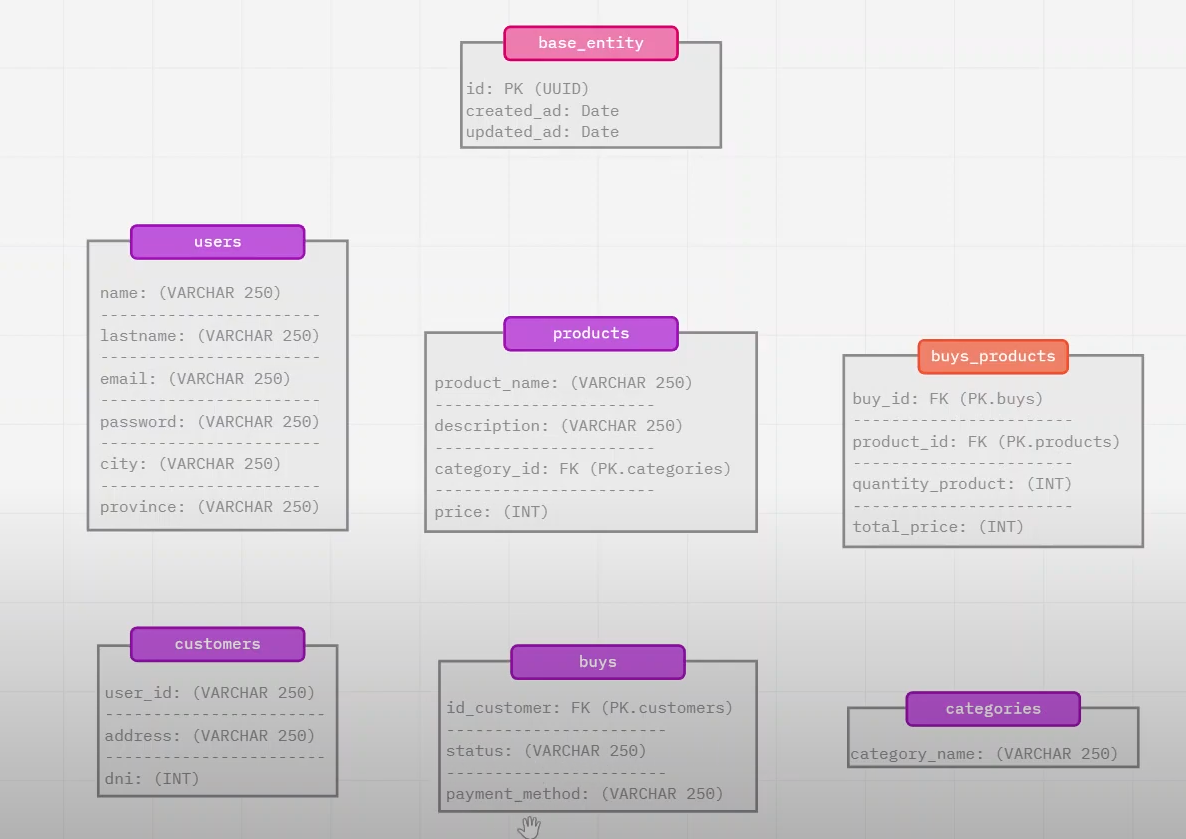
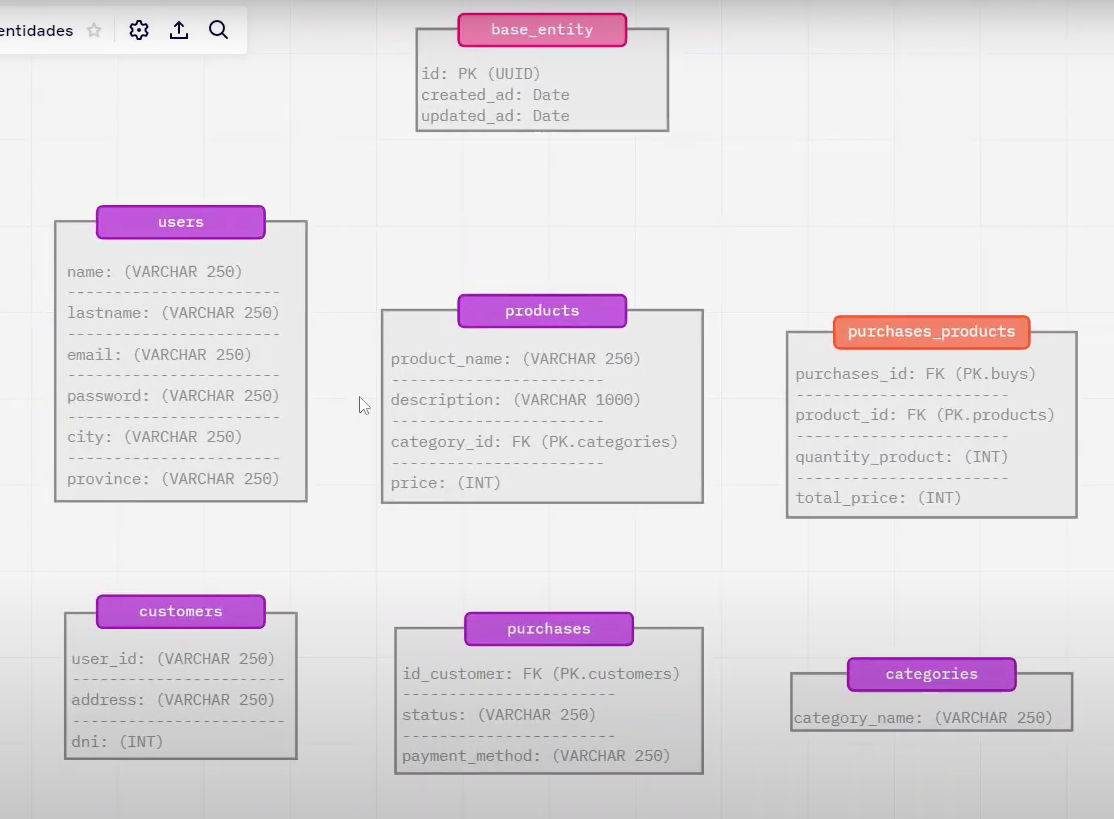
feat: adding remain entities

diff --git a/src/user/entities/user.entity.ts b/src/user/entities/user.entity.ts
@@ -1,7 +1,8 @@
-import { Column, Entity } from "typeorm";
+import { Column, Entity, OneToOne } from "typeorm";
 import { BaseEntity } from "../../libs";
+import { Customer } from "../../customer";
 
-@Entity({ name: "user" })
+@Entity({ name: "users" })
 export class User extends BaseEntity {
   @Column()
   username!: string;
@@ -12,9 +13,18 @@ export class User extends BaseEntity {
   @Column()
   lastname!: string;
 
-  @Column({ nullable: true })
-  jobPosition?: string;
+  @Column()
+  email!: string;
 
   @Column()
-  phone!: string;
+  password!: string;
+
+  @Column()
+  city!: string;
+
+  @Column()
+  province!: string;
+
+  @OneToOne(() => Customer, (customer) => customer.user)
+  customer!: Customer;
 }

diff --git a/src/purchase/entities/purchase.entity.ts b/src/purchase/entities/purchase.entity.ts
@@ -1,0 +1,30 @@
+import {
+  Column,
+  Entity,
+  JoinColumn,
+  ManyToOne,
+  OneToMany,
+  OneToOne,
+} from "typeorm";
+import { BaseEntity } from "../../libs";
+import { Customer } from "../../customer";
+import { PurchaseProduct } from "./purchases-products.entity";
+
+@Entity({ name: "purchases" })
+export class Purchase extends BaseEntity {
+  @Column()
+  status!: string;
+
+  @Column()
+  paymentMethod!: string;
+
+  @ManyToOne(() => Customer, (customer) => customer.purchases)
+  @JoinColumn({ name: "customer_id" })
+  customer!: Customer;
+
+  @OneToMany(
+    () => PurchaseProduct,
+    (purchaseProduct) => purchaseProduct.product
+  )
+  purchaseProduct!: PurchaseProduct[];
+}

diff --git a/src/product/entities/product.entity.ts b/src/product/entities/product.entity.ts
@@ -1,0 +1,26 @@
+import { Column, Entity, JoinColumn, ManyToOne, OneToMany } from "typeorm";
+import { BaseEntity } from "../../libs";
+import { Category } from "../../category";
+import { PurchaseProduct } from "../../purchase";
+
+@Entity({ name: "products" })
+export class Product extends BaseEntity {
+  @Column()
+  productName!: string;
+
+  @Column()
+  description!: string;
+
+  @Column()
+  price!: number;
+
+  @ManyToOne(() => Category, (category) => category.products)
+  @JoinColumn({ name: "category_id" })
+  category!: Category;
+
+  @OneToMany(
+    () => PurchaseProduct,
+    (purchaseProduct) => purchaseProduct.product
+  )
+  purchaseProduct!: PurchaseProduct[];
+}

diff --git a/src/purchase/entities/purchases-products.entity.ts b/src/purchase/entities/purchases-products.entity.ts
@@ -1,0 +1,21 @@
+import { Column, Entity, JoinColumn, ManyToOne } from "typeorm";
+import { BaseEntity } from "../../libs";
+import { Product } from "../../product";
+import { Purchase } from "..";
+
+@Entity({ name: "purchases_products" })
+export class PurchaseProduct extends BaseEntity {
+  @Column()
+  quantityProduct!: number;
+
+  @Column()
+  totalPrice!: number;
+
+  @ManyToOne(() => Purchase, (purchase) => purchase.purchaseProduct)
+  @JoinColumn({ name: "purchase_id" })
+  purchase!: Purchase;
+
+  @ManyToOne(() => Product, (product) => product.purchaseProduct)
+  @JoinColumn({ name: "product_id" })
+  product!: Product;
+}

diff --git a/src/customer/entities/customer.entity.ts b/src/customer/entities/customer.entity.ts
@@ -1,0 +1,20 @@
+import { Column, Entity, JoinColumn, OneToMany, OneToOne } from "typeorm";
+import { BaseEntity } from "../../libs";
+import { User } from "../../user";
+import { Purchase } from "../../purchase";
+
+@Entity({ name: "customers" })
+export class Customer extends BaseEntity {
+  @Column()
+  address!: string;
+
+  @Column()
+  dni!: string;
+
+  @OneToOne(() => User, (user) => user.customer)
+  @JoinColumn({ name: "user_id" })
+  user!: User;
+
+  @OneToMany(() => Purchase, (purchase) => purchase.customer)
+  purchases!: Purchase[];
+}

diff --git a/src/category/entities/category.entity.ts b/src/category/entities/category.entity.ts
@@ -1,0 +1,12 @@
+import { Column, Entity, OneToMany } from "typeorm";
+import { BaseEntity } from "../../libs";
+import { Product } from "../../product";
+
+@Entity({ name: "categories" })
+export class Category extends BaseEntity {
+  @Column()
+  categoryName!: string;
+
+  @OneToMany(() => Product, (product) => product.category)
+  products!: Product[];
+}

diff --git a/src/purchase/index.ts b/src/purchase/index.ts
@@ -1,0 +1,2 @@
+export * from "./entities/purchase.entity";
+export * from "./entities/purchases-products.entity";

diff --git a/src/category/index.ts b/src/category/index.ts
@@ -1,0 +1,1 @@
+export * from "./entities/category.entity";

diff --git a/src/customer/index.ts b/src/customer/index.ts
@@ -1,0 +1,1 @@
+export * from "./entities/customer.entity";

diff --git a/src/product/index.ts b/src/product/index.ts
@@ -1,0 +1,1 @@
+export * from "./entities/product.entity";
